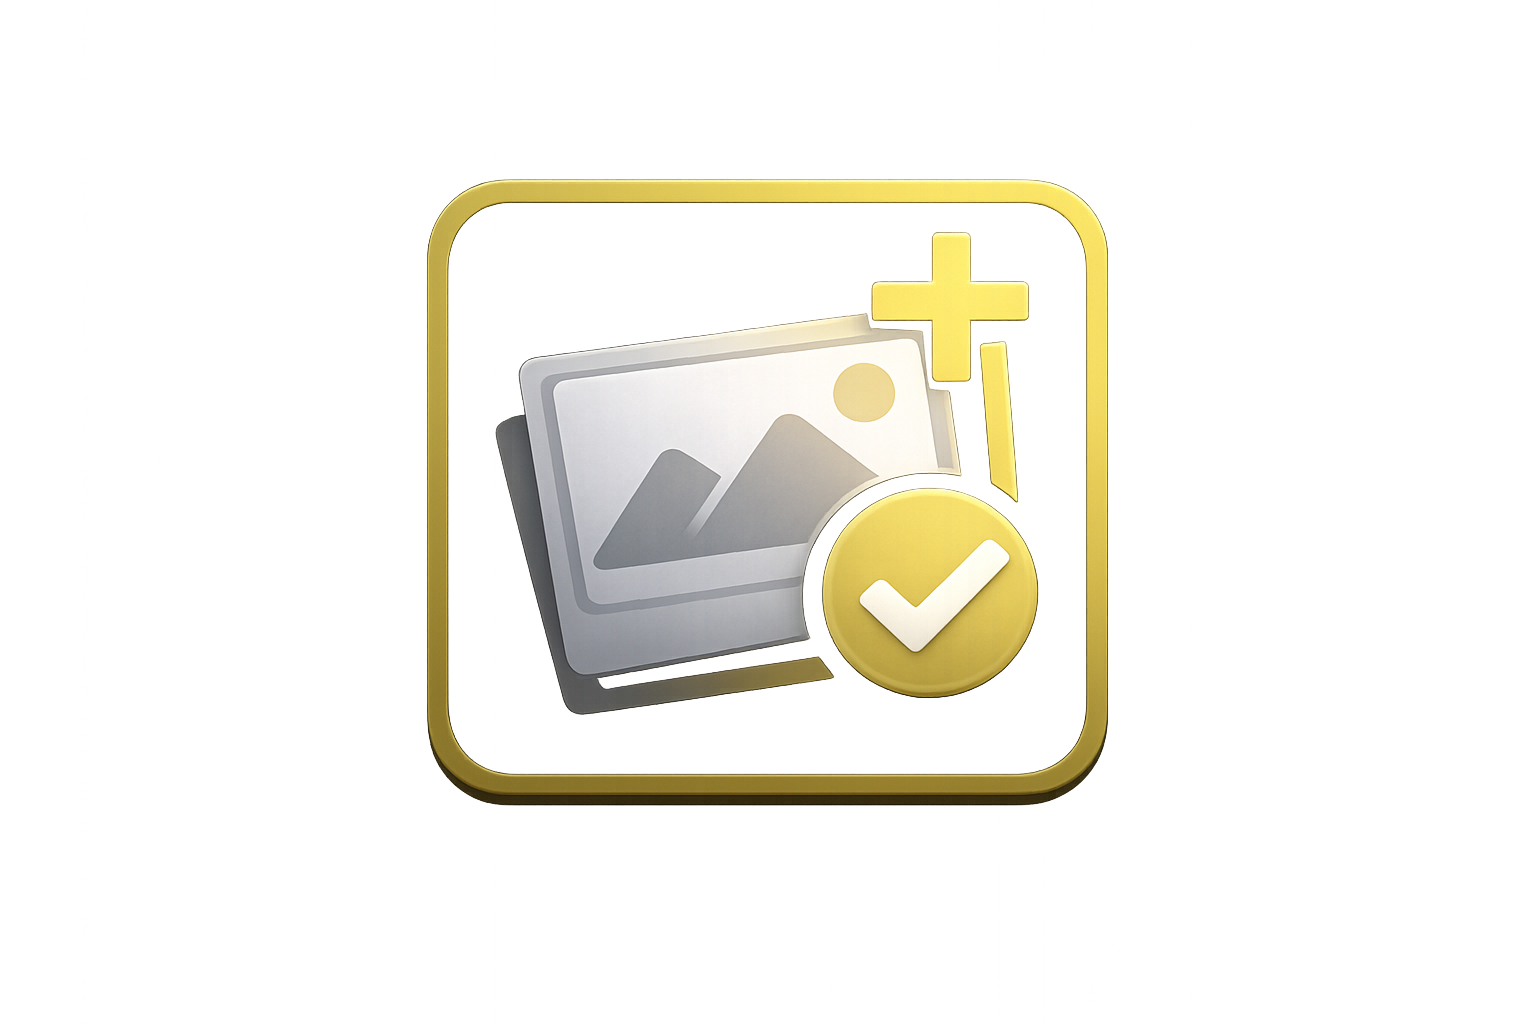
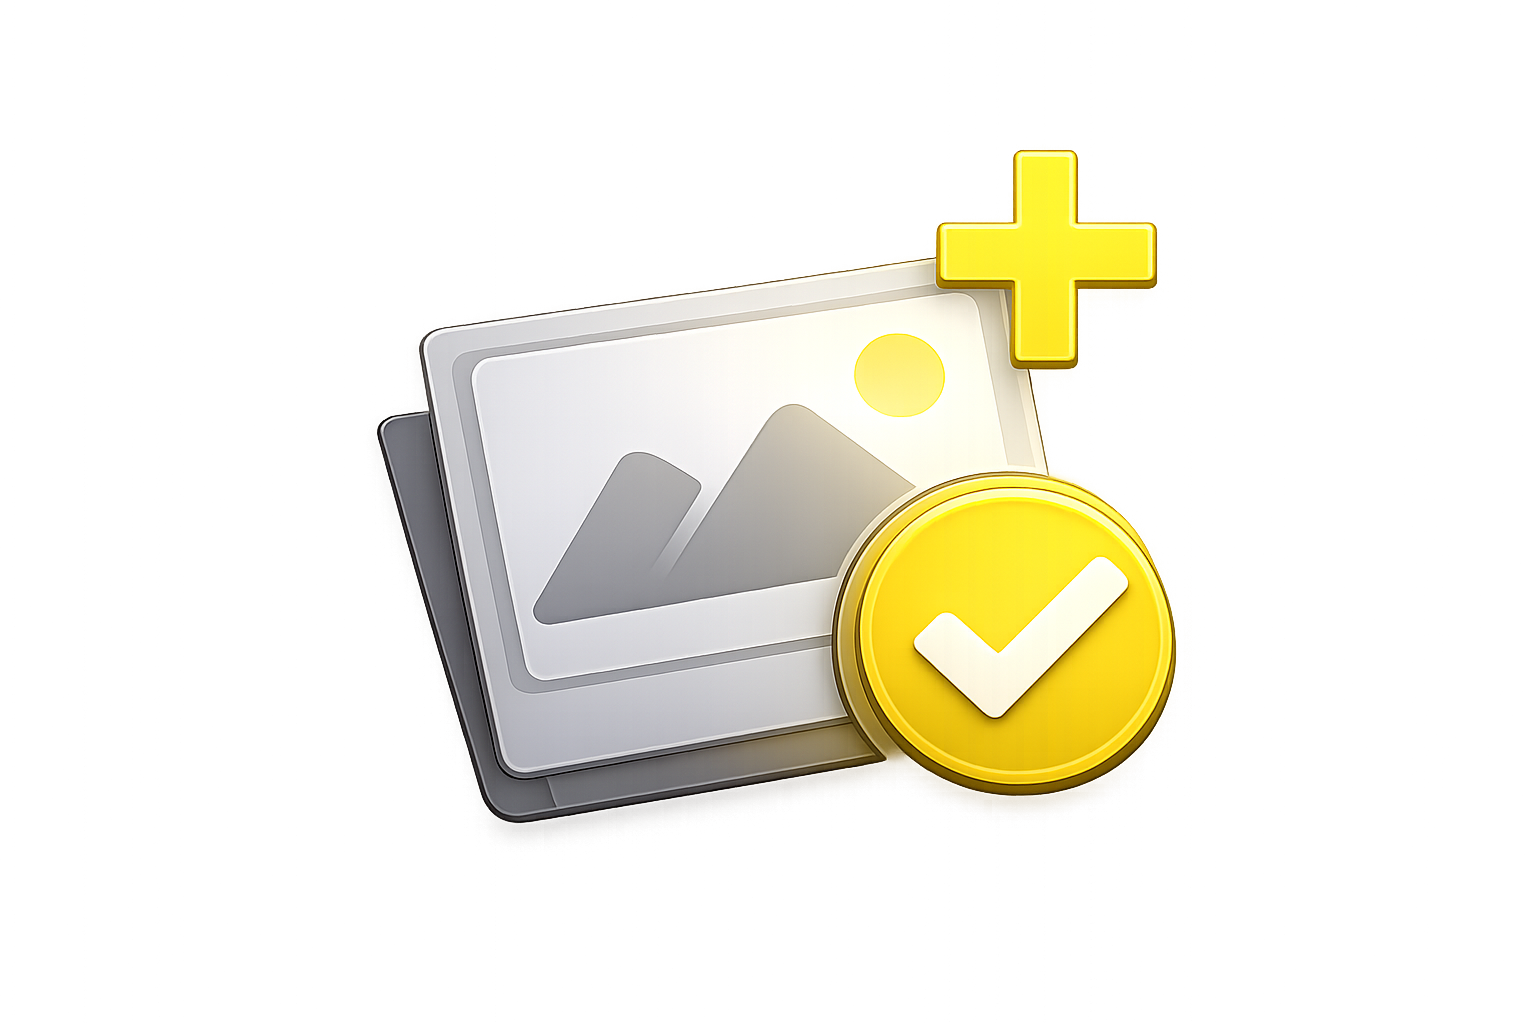
修复图标bug

Changed region(s): [[0.25, 0.125, 0.7812, 0.8125]]

diff --git a/src/QuickCover/QuickCoverPlugin.cs b/src/QuickCover/QuickCoverPlugin.cs
@@ -118,7 +118,7 @@ namespace QuickCover
             bitmap.EndInit();
             bitmap.Freeze();
 
-            var iconSource = new CroppedBitmap(bitmap, CreateCenteredSquareCrop(bitmap.PixelWidth, bitmap.PixelHeight, 0.68));
+            var iconSource = new CroppedBitmap(bitmap, CreateCenteredSquareCrop(bitmap.PixelWidth, bitmap.PixelHeight, 0.8));
             iconSource.Freeze();
 
             return new Image
@@ -140,5 +140,6 @@ namespace QuickCover
             var y = Math.Max(0, (pixelHeight - squareSize) / 2);
             return new System.Windows.Int32Rect(x, y, squareSize, squareSize);
         }
+
     }
 }